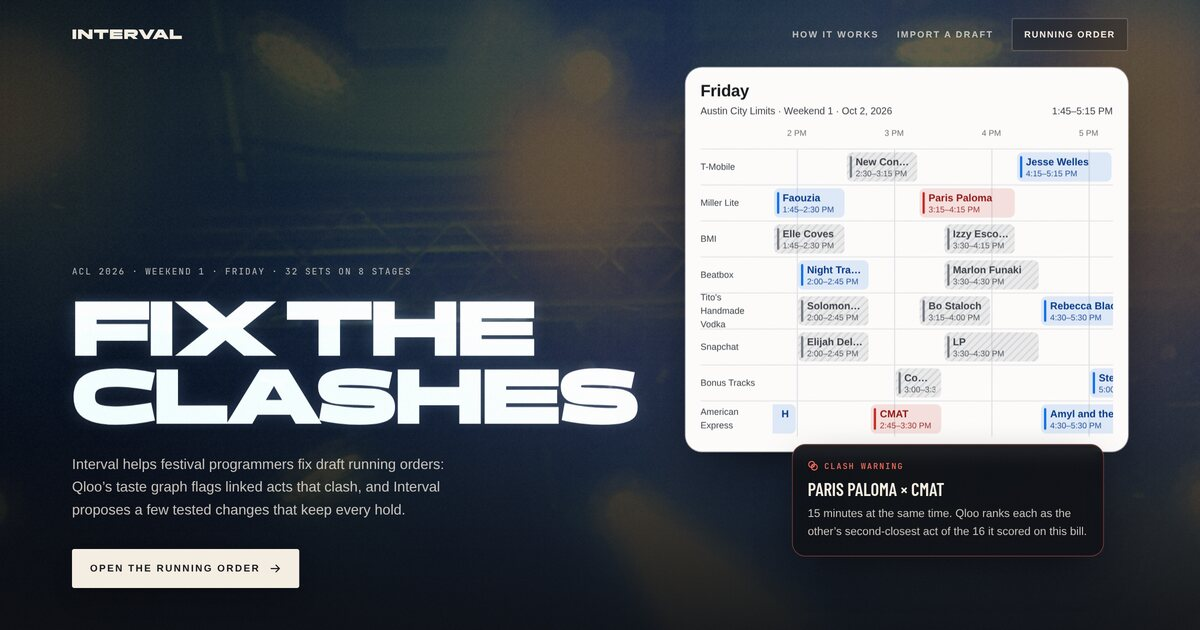
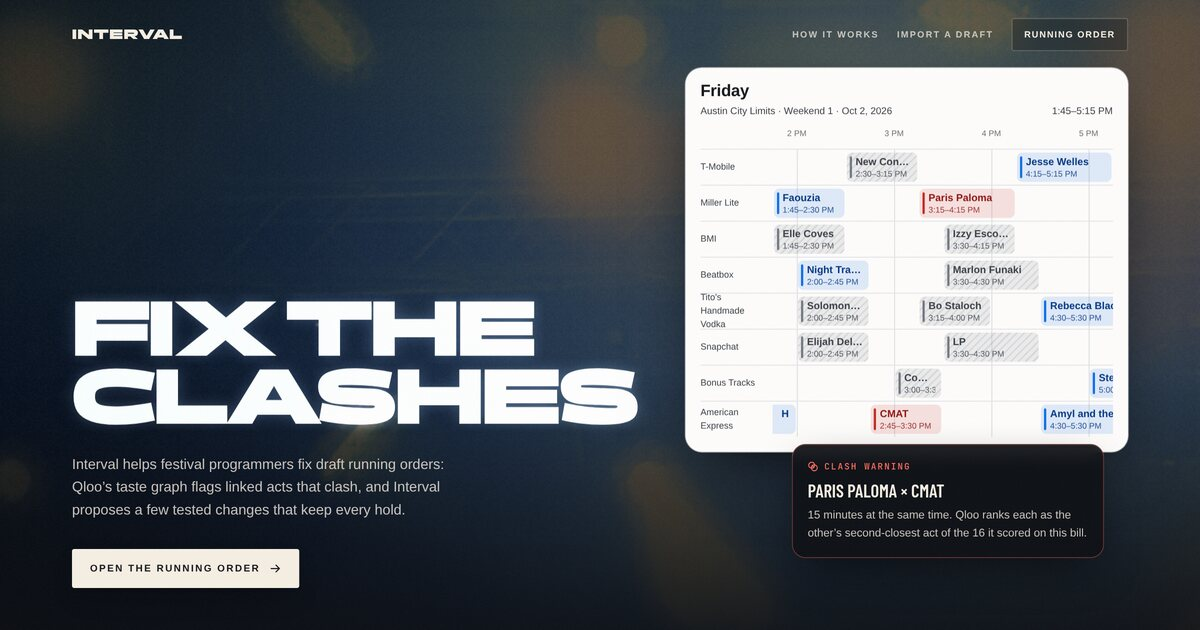
Let the layout explain: cut secondary labels and descriptions
Removed captions and helper sentences that restated what the layout,
a label, a legend or a button already says: the Repair caption, two stat
notes, the idle sheet hint, the undo bar's legend repeat, the rule
explanations in warnings and empty results, the proposal card's
unknown-overlap sentence, Comms' intro and footer, the evidence drawer's
eyebrow, the import intro and its repeated "stays unknown" lines, the
landing's hero eyebrow and overlap definition, and the error page's
paragraph. Kept values, states, consequences, costs, sources, the
affinity caveat and one fairness line on the comparison. The link-preview
image is recaptured without the removed eyebrow.

diff --git a/src/pages/sheet-page.tsx b/src/pages/sheet-page.tsx
@@ -12,7 +12,7 @@ import { Sheet } from '@/components/sheet';
 import { Stat } from '@/components/stat';
 import type { Clash, Repair, Run, SeedId, Slot as RunSlot, UnknownGuard } from '@/lib/api';
 import { useRun } from '@/lib/use-run';
-import { clock, concurrent, daySets, dayStages, festival, fromRun, overlapPairs, plural, sheetSlot, span, type Festival, type Slot } from '@/lib/timetable';
+import { clock, concurrent, daySets, dayStages, festival, fromRun, overlapPairs, plural, sheetSlot, type Festival, type Slot } from '@/lib/timetable';
 
 const SEEDS: Record<string, SeedId> = { '2026-10-02': 'acl-friday', '2026-10-16': 'iii-friday', '2026-10-17': 'iii-saturday' };
 const at = (s: RunSlot) => clock(s.start - Date.parse(`${s.day}T00:00:00Z`) / 60000);
@@ -75,9 +75,6 @@ function Legend({ moved, before }: { moved: boolean; before: string }) {
   );
 }
 
-const minutes = (n: number) => `${n.toLocaleString('en-US')} ${n === 1 ? 'minute' : 'minutes'}`;
-const unknownTotal = (before: number, after: number) => after === before ? `Their total stays at ${minutes(after)}.`
-  : `Their total ${after < before ? 'falls' : 'rises'} from ${before.toLocaleString('en-US')} to ${minutes(after)}.`;
 
 const panel = 'rounded-[4px] border border-chalk/12 bg-haze/80 p-5 backdrop-blur-md';
 
@@ -108,8 +105,7 @@ function Warnings({ run, strong, onOpen, onRule, busy }: { run: Run; strong: Cla
           </ul>
         ) : <p className="mt-3 text-[0.9375rem] text-chalk-2">No strong clash among the acts Qloo identifies.</p>}
         <p className="mt-2 text-[0.8125rem] leading-[1.6] text-chalk-2">
-          {plural(unknown, 'overlapping pair includes', 'overlapping pairs include')} an act Qloo can’t identify. Interval counts them as unknown, never as safe.{' '}
-          {net ? 'Looser rule in use: a tested change can’t grow their total overlap, though one pair can shift.' : 'Strict rule in use: a tested change can’t add overlap to any one of them.'}{' '}
+          {plural(unknown, 'overlapping pair includes', 'overlapping pairs include')} an act Qloo can’t identify; {net ? 'their total overlap can’t grow' : 'none of them can gain overlap'}.{' '}
           <button type="button" disabled={busy} onClick={() => onRule(net ? 'pair' : 'net')}
             className="font-medium text-chalk underline decoration-chalk/35 underline-offset-4 hover:decoration-chalk disabled:cursor-not-allowed disabled:opacity-45">
             {net ? 'Switch to the strict rule' : 'Switch to the looser rule'}
@@ -121,8 +117,6 @@ function Warnings({ run, strong, onOpen, onRule, busy }: { run: Run; strong: Cla
 }
 
 function Proposal({ repair, n, total, shown, onShow, onApply }: { repair: Repair; n: number; total: number; shown: boolean; onShow: () => void; onApply: () => void }) {
-  const unknown = repair.unknownChanges ?? [];
-  const pairs = unknown.length <= 3 ? unknown.map(u => `${u.acts.join(' × ')} (${u.beforeMinutes} to ${u.afterMinutes} min)`).join(', ') : plural(unknown.length, 'pair', 'pairs');
   const rows: [string, number, number][] = [
     ['Strong clashes', repair.before.strongClashes, repair.after.strongClashes],
     ['Qloo-weighted clash minutes', Math.round(repair.before.cost), Math.round(repair.after.cost)],
@@ -152,12 +146,7 @@ function Proposal({ repair, n, total, shown, onShow, onApply }: { repair: Repair
           </div>
         ))}
       </dl>
-      {unknown.length > 0 && (
-        <p className="mt-3 text-[0.8125rem] leading-[1.6] text-chalk-2">
-          {repair.unknownGuard === 'net' ? 'Looser rule: overlap' : 'Overlap'} with acts Qloo can’t identify changes for {pairs}.{' '}
-          {unknownTotal(repair.before.unknownMinutes, repair.after.unknownMinutes)}
-        </p>
-      )}
+
       <div className="mt-5 flex flex-wrap items-center gap-3">
         <button type="button" onClick={onApply} className={buttonClass('primary', 'h-11 px-5')}>Apply this change</button>
         <button type="button" aria-pressed={shown} onClick={onShow} className={buttonClass('ghost', cn('h-11 px-4', shown && 'border-chalk/70 bg-chalk/10'))}>
@@ -214,7 +203,6 @@ export function SheetPage() {
   const clashIds = useMemo(() => (preview ? clashesAfter(strong, preview) : new Set(strong.flatMap(c => c.setIds))), [strong, preview]);
   const sheetGhosts = preview ? preview.changes.filter(c => c.before.day === day).map(c => sheetSlot(c.before)) : shownGhosts;
   const pairs = useMemo(() => overlapPairs(current.sets), [current]);
-  const b2b = sets.filter(s => s.b2b).length;
   const selected = view === 'sheet' && !preview ? sets.find(s => s.id === pinned) ?? null : null;
   const canRepair = !!run && !busy && !!run.metrics && (run.status === 'ready' || run.status === 'none_found' || run.status === 'failed');
   const strict = run?.schedule.unknownGuard !== 'net';
@@ -261,9 +249,7 @@ export function SheetPage() {
         <a href="/" className="inline-flex items-center gap-2.5 font-display text-[1rem] font-extrabold uppercase tracking-[0.06em] text-chalk">
           <ArrowLeft size={16} weight="bold" className="text-chalk-2" />Interval
         </a>
-        {runId ? (
-          <span className="font-mono text-[0.75rem] uppercase tracking-[0.12em] text-chalk-2">Your running order</span>
-        ) : (
+        {!runId && (
           <AnimatedTabs label="Festival" variant="underline" activeTab={fid} onChange={id => { setFid(id as Festival['id']); setDay(null); reset(); }}
             tabs={[{ id: 'acl', label: 'ACL · Weekend 1' }, { id: 'iii', label: 'III Points' }]} />
         )}
@@ -272,13 +258,15 @@ export function SheetPage() {
           <AnimatedTabs label="View" variant="underline" activeTab={view} onChange={v => { setView(v as 'sheet' | 'list'); setPinned(null); }}
             tabs={[{ id: 'sheet', label: 'Sheet', icon: <Table size={15} /> }, { id: 'list', label: 'List', icon: <Rows size={15} /> }]} />
           <div className="flex flex-col items-end">
-            <button type="button" disabled={!canRepair} aria-describedby="repair-why" onClick={() => repair()}
+            <button type="button" disabled={!canRepair} aria-describedby={run ? undefined : 'repair-why'} onClick={() => repair()}
               className={buttonClass('primary', 'h-12 whitespace-nowrap px-5')}>
               <Intersect size={16} weight="bold" />{run?.status === 'searching' ? 'Searching…' : 'Repair running order'}
             </button>
-            <span id="repair-why" className="mt-1.5 font-mono text-[0.75rem] uppercase tracking-[0.1em] text-chalk-2">
-              {run ? `Moves up to ${plural(run.schedule.k, 'set', 'sets')} · keeps every hold` : error ? 'Qloo evidence unavailable' : 'Loading Qloo evidence'}
-            </span>
+            {!run && (
+              <span id="repair-why" className="mt-1.5 font-mono text-[0.75rem] uppercase tracking-[0.1em] text-chalk-2">
+                {error ? 'Qloo evidence unavailable' : 'Loading Qloo evidence'}
+              </span>
+            )}
           </div>
         </div>
       </header>
@@ -287,8 +275,8 @@ export function SheetPage() {
         <Stat label="Sets" value={current.sets.length} />
         <Stat label="Overlapping pairs" value={pairs} />
         <Stat label="Acts Qloo identifies" value={run ? run.coverage.confirmed : null} note={run ? `of ${run.coverage.acts} ${runId ? 'in this running order' : 'on this day'}` : undefined} />
-        <Stat label="Strong clashes" value={run?.metrics ? run.metrics.strongClashes : null} after={preview?.after.strongClashes} note={run?.metrics ? 'Linked acts playing at once' : 'Needs Qloo evidence'} />
-        <Stat label="Qloo-weighted clash minutes" value={run?.metrics ? Math.round(run.metrics.cost) : null} after={preview ? Math.round(preview.after.cost) : undefined} note={run?.metrics ? 'Overlap minutes × how closely Qloo links the acts' : 'Needs Qloo evidence'} />
+        <Stat label="Strong clashes" value={run?.metrics ? run.metrics.strongClashes : null} after={preview?.after.strongClashes} note={run?.metrics ? undefined : 'Needs Qloo evidence'} />
+        <Stat label="Qloo-weighted clash minutes" value={run?.metrics ? Math.round(run.metrics.cost) : null} after={preview ? Math.round(preview.after.cost) : undefined} note={run?.metrics ? undefined : 'Needs Qloo evidence'} />
       </section>
 
       <main id="running-order" tabIndex={-1} className="rise mx-auto mt-8 grid max-w-[112rem] grid-cols-[minmax(0,1fr)] gap-5 px-5 pb-24 lg:grid-cols-[minmax(0,1fr)_23rem]" style={{ '--i': 2 } as React.CSSProperties}>
@@ -341,14 +329,15 @@ export function SheetPage() {
             )}
             {!preview && run && (run.status === 'searching' || run.status === 'none_found' || run.status === 'failed') && (
               <div className="mb-5 flex flex-wrap items-center justify-between gap-x-6 gap-y-3 rounded-[14px] bg-paper-2 px-4 py-3 text-ink ring-1 ring-paper-line">
-                {run.status === 'searching' ? <p className="font-mono text-[0.8125rem] text-ink-2">Searching tested changes that keep every hold…</p> : (
+                {run.status === 'searching' ? <p className="font-mono text-[0.8125rem] text-ink-2">Searching…</p> : (
                   <>
                     <div className="min-w-0">
                       <p className="text-[0.9375rem] font-semibold leading-snug">{run.status === 'none_found' ? 'No tested change found' : run.reason ?? 'The search stopped early.'}</p>
-                      <p className="mt-1 max-w-[72ch] text-pretty text-[0.8125rem] leading-snug text-ink-2">
-                        {run.status === 'none_found' ? `${run.reason ?? ''} ` : ''}The draft stays as it is.
-                        {run.status === 'none_found' && (strict ? ' The strict rule rejects any change that adds overlap to a pair with an act Qloo can’t identify; the looser rule only stops their total overlap from growing.' : ' Releasing a hold gives the search more room.')}
-                      </p>
+                      {(run.status === 'failed' || !strict) && (
+                        <p className="mt-1 max-w-[72ch] text-pretty text-[0.8125rem] leading-snug text-ink-2">
+                          {run.status === 'failed' ? 'The draft stays as it is.' : 'Releasing a hold gives the search more room.'}
+                        </p>
+                      )}
                     </div>
                     {(run.status === 'failed' || strict) && (
                       <button type="button" disabled={!canRepair} onClick={() => repair(run.status === 'failed' ? undefined : 'net')} className={capsule}>
@@ -361,7 +350,7 @@ export function SheetPage() {
             )}
             {!preview && run?.canUndo && (
               <div className="mb-5 flex flex-wrap items-center justify-between gap-x-6 gap-y-3 rounded-[14px] bg-paper-2 px-4 py-3 text-ink ring-1 ring-paper-line">
-                <p className="text-[0.875rem] leading-snug text-ink-2">{shownGhosts ? 'Change applied. Dashed outlines show where the moved sets were; green shows where they play now.' : 'A tested change is applied.'}</p>
+                <p className="text-[0.875rem] leading-snug text-ink-2">{shownGhosts ? 'Change applied.' : 'A tested change is applied.'}</p>
                 <button type="button" disabled={busy} onClick={() => { setNotice(''); void act({ type: 'undo', expectedVersion: run.version }); }} className={capsule}>
                   <ArrowCounterClockwise aria-hidden="true" size={15} weight="bold" />Undo the last change
                 </button>
@@ -404,16 +393,15 @@ export function SheetPage() {
           {runId ? (
             <p className="max-w-[72ch] text-pretty text-[0.8125rem] leading-[1.6] text-chalk-2">
               Imported from your CSV. {run?.assumptions.map(a => `${a}.`).join(' ')}
-              {run?.snapshot ? ` Qloo: snapshot fetched ${date(run.snapshot.fetchedAt)}, covering the acts you confirmed. Striped grey sets are acts it can’t identify, so their pairs stay unknown.` : ''}{' '}
+              {run?.snapshot ? ` Qloo: snapshot fetched ${date(run.snapshot.fetchedAt)}.` : ''}{' '}
               <a className="underline decoration-chalk/30 underline-offset-4 hover:text-chalk" href="/import">Import another draft</a>
             </p>
           ) : (
           <p className="max-w-[72ch] text-pretty text-[0.8125rem] leading-[1.6] text-chalk-2">
             Timetable: <a className="underline decoration-chalk/30 underline-offset-4 hover:text-chalk" href={f.sourceUrl} target="_blank" rel="noreferrer">{f.source}</a>, verified {f.verified}. Retrospective scenario. {f.holds}.
             {f.notShown ? ` ${f.notShown}.` : ''}
-            {run?.snapshot ? ` Qloo: saved snapshot fetched ${date(run.snapshot.fetchedAt)}, covering the acts it can identify. Striped grey sets are acts it can’t, so their pairs stay unknown.` : ' Qloo snapshot: not loaded.'}
-            {b2b ? ` ${plural(b2b, 'b2b set is', 'b2b sets are')} striped too: their artists are never merged into one Qloo identity.` : ''}{' '}
-            <a className="underline decoration-chalk/30 underline-offset-4 hover:text-chalk" href="/import">Import a draft</a> to try your own lineup.
+            {run?.snapshot ? ` Qloo: saved snapshot, fetched ${date(run.snapshot.fetchedAt)}.` : ' Qloo snapshot: not loaded.'}{' '}
+            <a className="underline decoration-chalk/30 underline-offset-4 hover:text-chalk" href="/import">Import a draft</a>
           </p>
           )}
         </div>

diff --git a/src/pages/import-page.tsx b/src/pages/import-page.tsx
@@ -47,9 +47,6 @@ export function ImportPage() {
       <main className="rise mx-auto mt-10 max-w-3xl space-y-5 px-5 pb-24" style={{ '--i': 1 } as React.CSSProperties}>
         <div>
           <h1 className="font-display text-[clamp(1.75rem,5vw,2.75rem)] font-extrabold uppercase leading-[0.95] tracking-[-0.01em] text-chalk">Import a draft</h1>
-          <p className={cn(body, 'mt-4 max-w-[62ch] text-pretty')}>
-            Paste a draft as CSV. Interval matches each act to Qloo, tells you how many Qloo calls scoring needs before it runs, then finds clashes and tested changes the same way it does for the sample festivals.
-          </p>
         </div>
         {error && <p role="alert" className="flex items-start gap-2.5 rounded-[4px] border border-chalk/25 bg-stage/70 px-4 py-3 text-[0.9375rem] leading-6 text-chalk"><WarningCircle size={18} weight="bold" className="mt-0.5 shrink-0" />{error}</p>}
         {!runId ? <Paste onCreated={r => { save(r); setRunId(r.id); window.history.replaceState(null, '', `/import?run=${r.id}`); }} />
@@ -88,7 +85,7 @@ function Paste({ onCreated }: { onCreated: (r: Run) => void }) {
       </div>
       <label htmlFor="csv" className="mt-5 block text-[0.875rem] font-medium text-chalk">Running order as CSV</label>
       <p id="csv-help" className="mt-1 max-w-[68ch] text-pretty text-[0.8125rem] leading-[1.6] text-chalk-2">
-        Columns: day, stage, act, start, end, with local times such as 19:30 or 7:30 PM. Cells pasted from a spreadsheet work too. Up to 150 sets and 60 acts.
+        Columns: day, stage, act, start, end. Up to 150 sets and 60 acts.
       </p>
       <details className="mt-1 text-[0.8125rem] leading-[1.6] text-chalk-2">
         <summary className="cursor-pointer text-chalk underline decoration-chalk/35 underline-offset-4">Optional columns</summary>
@@ -130,7 +127,7 @@ function Steps({ run, busy, save, setError }: { run: Run; busy: boolean; save: (
       <section className={panel}>
         <Step n={1}>Draft checked</Step>
         <p className={cn(body, 'mt-2')}>
-          {plural(run.schedule.slots.length, 'set', 'sets')} by {plural(run.identities.length, 'act', 'acts')} across {plural(stages, 'stage', 'stages')} on {plural(days, 'day', 'days')}, in {run.timezone.replace(/_/g, ' ')}. Every set fits its stage without overlap.
+          {plural(run.schedule.slots.length, 'set', 'sets')} by {plural(run.identities.length, 'act', 'acts')} across {plural(stages, 'stage', 'stages')} on {plural(days, 'day', 'days')}, in {run.timezone.replace(/_/g, ' ')}.
         </p>
       </section>
       {unlooked.length > 0 || run.status === 'resolving'
@@ -173,7 +170,7 @@ function Lookup({ run, count, busy, save, setError }: { run: Run; count: number;
           : `Looking up ${plural(count, 'act', 'acts')} takes ${plural(estimate.estimatedCalls, 'Qloo call', 'Qloo calls')}, and at most ${estimate.maximumCalls} if some need a retry.`}
         {run.schedule.slots.some(s => /\bb2b\b/i.test(s.label)) ? ' b2b sets stay unknown: their artists are never merged into one identity.' : ''}
       </p>
-      {working && <p role="status" className="mt-3 font-mono text-[0.8125rem] text-chalk-2">Looking up acts on Qloo. This takes about a second per act.</p>}
+      {working && <p role="status" className="mt-3 font-mono text-[0.8125rem] text-chalk-2">Looking up acts on Qloo…</p>}
       {working && <div aria-hidden="true" className="shimmer-dark mt-3 h-1 w-full rounded-full" />}
       <button type="button" disabled={!estimate || working} onClick={go} className={buttonClass('primary', 'mt-5 h-12 px-5')}>
         <MagnifyingGlass size={16} weight="bold" />{estimate?.live && estimate.estimatedCalls > 0 ? `Look up acts · up to ${plural(estimate.maximumCalls, 'call', 'calls')}` : 'Look up acts'}
@@ -187,7 +184,6 @@ function Matches({ run, save, setError }: { run: Run; save: (r: Run) => void; se
   // Only a person's earlier review is preselected, never a name match: Qloo often has several artists with one name
   // (ACL's Leon Thomas is "Leon Thomas III", not the jazz singer). The programmer still saves every choice.
   const [choice, setChoice] = useState<Record<string, string>>(() => Object.fromEntries(acts.filter(i => i.status === 'ambiguous' && i.suggestedRef).map(i => [i.act, i.suggestedRef!])));
-  const reviewed = acts.find(i => i.status === 'ambiguous' && i.suggestedFrom)?.suggestedFrom;
   const [saving, setSaving] = useState(false);
   const [expanded, setExpanded] = useState<Record<string, boolean>>({});
   const pending = acts.filter(i => i.status === 'ambiguous');
@@ -216,7 +212,7 @@ function Matches({ run, save, setError }: { run: Run; save: (r: Run) => void; se
       <section className={panel}>
         <Step n={3}>Matches confirmed</Step>
         <p className={cn(body, 'mt-2')}>
-          {plural(matched.length, 'act is', 'acts are')} matched to Qloo artists; the other {acts.length - matched.length} stay unknown. The scores depend on these matches, so they’re fixed now. To try different matches, import the draft again.
+          {plural(matched.length, 'act is', 'acts are')} matched to Qloo artists; the other {acts.length - matched.length} stay unknown. To change matches, import the draft again.
         </p>
         <details className="mt-4">
           <summary className="cursor-pointer text-[0.875rem] font-medium text-chalk underline decoration-chalk/35 underline-offset-4">Show every match</summary>
@@ -236,8 +232,7 @@ function Matches({ run, save, setError }: { run: Run; save: (r: Run) => void; se
     <section className={panel}>
       <Step n={3}>Confirm the matches</Step>
       <p className={cn(body, 'mt-2')}>
-        {pending.length ? `Pick the Qloo artist for each act. Names repeat, so check the description. Acts you skip stay unknown.${reviewed ? ` Matches a person already confirmed for ${reviewed} are preselected.` : ''}`
-          : 'Every act is settled. Acts without a match stay unknown: Interval never moves them and never treats their pairs as zero.'}
+        {pending.length ? 'Pick the Qloo artist for each act. Acts you skip stay unknown.' : 'Every act is settled.'}
       </p>
       {pending.length > 0 && (
         <ul className="mt-5 space-y-5">
@@ -246,7 +241,7 @@ function Matches({ run, save, setError }: { run: Run; save: (r: Run) => void; se
               <fieldset>
                 <legend className="font-narrow text-[1.25rem] font-semibold uppercase leading-tight text-chalk">{i.act}</legend>
                 <div className="mt-2 grid gap-2">
-                  {[...i.candidates.map(c => ({ ref: c.ref, title: c.name, tag: c.ref === i.suggestedRef ? 'Reviewed match' : c.name.toLowerCase() === i.act.toLowerCase() ? 'Same name' : null, detail: [c.genres.slice(0, 3).join(', '), c.description].filter(Boolean).join(' · ') })), { ref: 'none', title: 'None of these', tag: null, detail: 'The act stays unknown.' }]
+                  {[...i.candidates.map(c => ({ ref: c.ref, title: c.name, tag: c.ref === i.suggestedRef ? 'Reviewed match' : c.name.toLowerCase() === i.act.toLowerCase() ? 'Same name' : null, detail: [c.genres.slice(0, 3).join(', '), c.description].filter(Boolean).join(' · ') })), { ref: 'none', title: 'None of these', tag: null, detail: '' }]
                     .filter((o, k) => expanded[i.act] || k < 2 || o.ref === 'none' || o.ref === choice[i.act]).map(o => (
                     <label key={o.ref} className={cn('flex cursor-pointer items-start gap-3 rounded-[3px] border px-3 py-2.5 transition-colors duration-150', choice[i.act] === o.ref ? 'border-chalk/60 bg-chalk/[0.07]' : 'border-chalk/12 hover:border-chalk/35')}>
                       <input type="radio" name={`match-${i.act}`} value={o.ref} checked={choice[i.act] === o.ref} onChange={() => setChoice(m => ({ ...m, [i.act]: o.ref }))} className="mt-1 size-4 shrink-0 accent-[var(--color-chalk)]" />
@@ -270,7 +265,7 @@ function Matches({ run, save, setError }: { run: Run; save: (r: Run) => void; se
       )}
       {pending.length > 0 && (
         <div className="sticky bottom-[4.25rem] z-10 mt-6 flex flex-wrap items-center justify-between gap-3 rounded-[4px] xl:bottom-4 border border-chalk/15 bg-stage/95 px-4 py-3 shadow-[0_18px_40px_-20px_oklch(0.122_0.009_268.083_/_0.95)] backdrop-blur-md">
-          <p className="text-[0.875rem] text-chalk-2 tnum">{chosen.length} of {plural(pending.length, 'act', 'acts')} chosen{chosen.length < pending.length ? '. The rest stay unknown.' : ''}</p>
+          <p className="text-[0.875rem] text-chalk-2 tnum">{chosen.length} of {plural(pending.length, 'act', 'acts')} chosen</p>
           <button type="button" disabled={!chosen.length || saving} onClick={confirm} className={buttonClass('primary', 'h-12 px-5')}>
             <Check size={16} weight="bold" />{saving ? 'Saving…' : `Save ${plural(chosen.length, 'choice', 'choices')}`}
           </button>
@@ -333,7 +328,7 @@ function Score({ run, busy, save, setError }: { run: Run; busy: boolean; save: (
     <section className={panel} aria-busy={scoring}>
       <Step n={4}>Score the confirmed acts</Step>
       <p className={cn(body, 'mt-2')}>
-        {short ? `Scoring needs at least ${MIN_SCORED} confirmed acts, and ${confirmed} ${confirmed === 1 ? 'is' : 'are'} confirmed. Qloo’s scores are compared within each act’s list, and a shorter list can’t tell strong links from weak ones.`
+        {short ? `Scoring needs at least ${MIN_SCORED} confirmed acts, and ${confirmed} ${confirmed === 1 ? 'is' : 'are'} confirmed.`
           : !estimate ? 'Checking what scoring costs…'
           : estimate.estimatedCalls === 0 ? `Every comparison between these ${plural(confirmed, 'act', 'acts')} is already saved, so scoring uses no Qloo calls.`
           : unsaved ? `This demo uses saved Qloo data only, and ${plural(estimate.estimatedCalls, 'request these matches need isn’t', 'requests these matches need aren’t')} saved, so it can’t score them here. The reviewed matches of the ACL Friday sample score from saved data; to score your own lineup, run Interval with a Qloo key.`

diff --git a/src/pages/landing.tsx b/src/pages/landing.tsx
@@ -140,9 +140,8 @@ function Statement({ pairs, strong, unknown }: { pairs: number; strong: number |
   return (
     <section ref={ref} aria-label="What Qloo changes" className="mx-auto grid max-w-[92rem] grid-cols-[minmax(0,1fr)] gap-x-10 gap-y-12 px-5 py-28 sm:px-8 lg:grid-cols-[minmax(0,1fr)_minmax(0,1fr)] lg:items-end lg:py-36">
       <div>
-        <p className="font-mono text-[0.75rem] uppercase tracking-[0.14em] text-chalk-2">ACL Friday, as published</p>
-        <RollingNumber value={seen ? String(pairs) : pad(pairs)} className="outline-type mt-4 font-display text-[clamp(6rem,17vw,16rem)] font-extrabold leading-[0.9] tracking-[-0.05em]" />
-        <p className="mt-2 font-display text-[clamp(1.125rem,1.7vw,1.625rem)] font-bold uppercase leading-tight">Overlapping pairs</p>
+        <RollingNumber value={seen ? String(pairs) : pad(pairs)} className="outline-type font-display text-[clamp(6rem,17vw,16rem)] font-extrabold leading-[0.9] tracking-[-0.05em]" />
+        <p className="mt-2 font-display text-[clamp(1.125rem,1.7vw,1.625rem)] font-bold uppercase leading-tight">Overlapping pairs, as published</p>
       </div>
       <div className="lg:pb-2">
         {strong == null
@@ -216,7 +215,6 @@ export function Landing() {
             <Stat label="Stages" value={stageNames.length} />
             <Stat label="Overlaps" value={pairs} />
           </div>
-          <p className="mt-5 text-[0.875rem] leading-[1.6] text-chalk-2">Overlaps are pairs of sets playing at the same time on different stages.</p>
         </>
       ),
     },
@@ -239,7 +237,7 @@ export function Landing() {
           <pre className="mt-6 overflow-x-auto rounded-[3px] border border-chalk/15 bg-stage/70 p-4 font-mono text-[0.8125rem] leading-[1.6] text-chalk">{QLOO_REQUEST}</pre>
           <p className="mt-4 text-chalk-2">
             {clash
-              ? <>On this Friday that’s {clash.acts[0]} and {clash.acts[1]}, who overlap by {clash.overlapMinutes} minutes. {reading} Qloo identifies {run?.coverage.confirmed} of the {run?.coverage.acts} acts; the rest are striped grey and stay unknown.</>
+              ? <>On this Friday that’s {clash.acts[0]} and {clash.acts[1]}, who overlap by {clash.overlapMinutes} minutes. {reading} Qloo identifies {run?.coverage.confirmed} of the {run?.coverage.acts} acts.</>
               : "This page couldn’t load the saved Qloo snapshot, so no clash is marked."}
           </p>
         </>
@@ -327,10 +325,7 @@ export function Landing() {
       <main id="main">
       <section className="relative mx-auto grid min-h-[100dvh] max-w-[92rem] grid-cols-[minmax(0,1fr)] gap-12 px-5 pt-28 pb-14 sm:px-8 lg:grid-cols-[minmax(0,1.32fr)_minmax(0,1fr)] lg:gap-10 lg:pt-24">
         <div className="@container lg:self-end">
-          <p className="rise font-mono text-[0.75rem] uppercase tracking-[0.14em] text-chalk-2" style={order(0)}>
-            ACL 2026 · Weekend 1 · Friday · {plural(sets.length, 'set', 'sets')} on {plural(stageNames.length, 'stage', 'stages')}
-          </p>
-          <h1 className="rise mt-5 font-display text-[min(13.6cqi,8rem)] font-extrabold uppercase leading-[0.86] tracking-[-0.03em] text-chalk" style={order(1)}>
+          <h1 className="rise font-display text-[min(13.6cqi,8rem)] font-extrabold uppercase leading-[0.86] tracking-[-0.03em] text-chalk" style={order(1)}>
             <ShaderText lines={['Fix the', 'clashes']} />
           </h1>
           <p className="rise mt-8 max-w-[34rem] text-[clamp(1rem,1.2vw,1.1875rem)] leading-[1.6] text-chalk/80" style={order(2)}>{PRODUCT_SENTENCE}</p>

diff --git a/src/components/evidence-drawer.tsx b/src/components/evidence-drawer.tsx
@@ -1,7 +1,7 @@
 import { useCallback, useEffect, useRef, useState } from 'react';
 import { useReducedMotion } from 'motion/react';
 import { cn } from 'cn';
-import { Graph, X } from '@phosphor-icons/react';
+import { X } from '@phosphor-icons/react';
 import { api, type Clash, type PairEvidence } from '@/lib/api';
 
 const ordinal = (n: number) => `${n}${n % 100 >= 11 && n % 100 <= 13 ? 'th' : ['th', 'st', 'nd', 'rd'][n % 10] ?? 'th'}`;
@@ -38,10 +38,9 @@ export function EvidenceDrawer({ runId, clash, onClose }: { runId: string; clash
         className={cn('paper flex h-full w-full max-w-[34rem] flex-col gap-6 overflow-y-auto overscroll-contain bg-paper p-6 text-ink shadow-[0_0_80px_oklch(0.122_0.009_268.083_/_0.6)] sm:p-8', leaving ? 'drawer-out' : 'drawer-in')}>
         <div className="flex items-start justify-between gap-4">
           <div>
-            <p className="flex items-center gap-2 font-mono text-[0.75rem] uppercase tracking-[0.12em] text-ink-2"><Graph size={14} weight="bold" />Qloo evidence</p>
-            <h2 className="mt-2 font-narrow text-[1.75rem] font-semibold uppercase leading-[1.05]">{clash.acts[0]} × {clash.acts[1]}</h2>
+            <h2 className="font-narrow text-[1.75rem] font-semibold uppercase leading-[1.05]">{clash.acts[0]} × {clash.acts[1]}</h2>
             <p className="mt-2 text-[0.9375rem] leading-6 text-ink-2">
-              They overlap for {clash.overlapMinutes} minutes. Pair weight {clash.weight == null ? 'unknown' : clash.weight.toFixed(2)}: the mean of both directions below, where 0.90 or more is a strong link.
+              {clash.overlapMinutes} min overlap · pair weight {clash.weight == null ? 'unknown' : clash.weight.toFixed(2)}, strong at 0.90 or more
             </p>
           </div>
           <button ref={close} type="button" onClick={dismiss} aria-label="Close the evidence" className="grid size-10 shrink-0 place-items-center rounded-[3px] border border-ink/20 transition-[background-color,scale] duration-150 hover:bg-ink/5 active:scale-[0.96]"><X size={16} weight="bold" /></button>
@@ -82,7 +81,7 @@ export function EvidenceDrawer({ runId, clash, onClose }: { runId: string; clash
             <p className="mt-2 font-mono text-[0.75rem] text-ink-2">Saved Qloo snapshot, fetched {date(d.fetched)}</p>
           </section>
         ))}
-        <p className="mt-auto text-[0.8125rem] leading-5 text-ink-2">Affinity is Qloo’s taste-graph signal, ranked within each act’s row. It is not a count of shared ticket holders.</p>
+        <p className="mt-auto text-[0.8125rem] leading-5 text-ink-2">Affinity is a taste-graph signal, not a count of shared ticket holders.</p>
       </aside>
     </div>
   );

diff --git a/src/components/comms.tsx b/src/components/comms.tsx
@@ -116,17 +116,12 @@ export function Comms({ run, send, className }: { run?: Run; send: (body: Omit<M
         <span className="font-mono text-[0.75rem] uppercase tracking-[0.12em] text-chalk-2">{health?.model ?? 'Agent'} · {status}</span>
       </div>
 
-      {turns.length === 0 && (
-        <p className="text-[0.875rem] leading-[1.6] text-chalk-2">
-          Ask for a change in plain words. The agent turns it into constraints, runs the search, and answers only with facts its tools returned.
-        </p>
-      )}
       {paused && (
         <p className="text-[0.875rem] leading-[1.6] text-chalk/90">
           {health.status === 'limited'
-            ? `Live answers are paused: Interval’s model-call allowance is used up${health.retry_at ? ` until ${clockAt(health.retry_at)}` : ''}.`
+            ? `Live answers are paused${health.retry_at ? ` until ${clockAt(health.retry_at)}` : ''}.`
             : 'Live answers are unavailable right now.'}
-          {recordings.length > 0 ? ' The recorded answers below still replay.' : ' Recorded answers only replay on the exact running order and rules they were recorded on.'}
+          {recordings.length > 0 ? ' Recorded answers still replay.' : ''}
         </p>
       )}
       <ol aria-live="polite" aria-label="Conversation" className={cn('max-h-[52vh] space-y-5 overflow-y-auto overscroll-contain pe-1', !turns.length && 'hidden')}>
@@ -159,9 +154,6 @@ export function Comms({ run, send, className }: { run?: Run; send: (body: Omit<M
           </button>
         </div>
         {thinking && <div aria-hidden="true" className="shimmer-dark mt-2 h-1 w-full rounded-full" />}
-        <p className="mt-2 text-[0.75rem] leading-5 text-chalk-2">
-          {thinking ? 'Working on it. Each step appears as it actually runs.' : paused ? 'Recorded answers say when they were recorded.' : 'Live answers come from gpt-5.6-luna. Recorded answers say when they were recorded.'}
-        </p>
       </form>
     </aside>
   );

diff --git a/src/components/comparison.tsx b/src/components/comparison.tsx
@@ -45,7 +45,7 @@ export function Comparison({ seedId }: { seedId: SeedId }) {
     <section aria-labelledby="comparison-title" className="rounded-[4px] border border-chalk/12 bg-haze/80 p-5 backdrop-blur-md">
       <h2 id="comparison-title" className="font-display text-[0.875rem] font-bold uppercase tracking-[0.06em]">Compared with other approaches</h2>
       <p className="mt-2 max-w-[72ch] text-pretty text-[0.8125rem] leading-[1.6] text-chalk-2">
-        Every row is measured the same way, on the published timetable. The LLM-only trials saw the act names, set times and the same rules, but no Qloo scores. The genre rows use genre labels gathered before any Qloo data.
+        Every row is scored the same way; the LLM-only and genre rows had no Qloo scores.
       </p>
       {data ? (
         <div tabIndex={0} role="region" aria-label="Comparison table" className="relative -mx-5 mt-4 overflow-x-auto overscroll-x-contain px-2">
@@ -94,7 +94,7 @@ export function Comparison({ seedId }: { seedId: SeedId }) {
       )}
       {data && (
         <p className="mt-4 max-w-[72ch] text-pretty text-[0.8125rem] leading-[1.6] text-chalk-2">
-          Prepared {new Date(data.frozenAt).toLocaleDateString('en-US', { month: 'short', day: 'numeric', year: 'numeric' })}, before this page loaded. A retrospective comparison of timetables, not of audience outcomes.
+          Prepared {new Date(data.frozenAt).toLocaleDateString('en-US', { month: 'short', day: 'numeric', year: 'numeric' })}.
         </p>
       )}
     </section>

diff --git a/src/lib/timetable.ts b/src/lib/timetable.ts
@@ -78,7 +78,7 @@ export const FESTIVALS: Festival[] = [
     source: 'official C3 schedule image',
     sourceUrl: 'https://www.aclfestival.com/schedule',
     verified: 'Oct 12, 2026',
-    holds: 'Inferred holds, loosened to billing bands for this scenario',
+    holds: 'Inferred holds, loosened to billing bands',
     notShown: "Kids' area and silent disco not shown",
     days: [{ id: '2026-10-02', label: 'Fri' }],
     stages: ordered(acl.map(r => r.stage)),
@@ -101,7 +101,7 @@ export const FESTIVALS: Festival[] = [
     source: 'official set-times page',
     sourceUrl: 'https://www.iiipoints.com/set-times/',
     verified: 'Oct 12, 2026',
-    holds: 'No holds set for this scenario',
+    holds: 'No holds set',
     days: [{ id: '2026-10-16', label: 'Fri' }, { id: '2026-10-17', label: 'Sat' }],
     stages: ordered(iii.map(r => r.stage)),
     sets: iii.map((r, i) => ({

diff --git a/src/app.tsx b/src/app.tsx
@@ -15,7 +15,6 @@ class PageError extends Component<{ children: ReactNode }, { failed: boolean }> 
     return (
       <main className="mx-auto max-w-xl px-5 py-24">
         <h1 className="font-display text-[clamp(1.75rem,5vw,2.25rem)] font-extrabold uppercase leading-[1] text-chalk">This page hit an error</h1>
-        <p className="mt-4 text-[0.9375rem] leading-[1.6] text-chalk-2">Reload to try again. If it keeps happening, start from the front page.</p>
         <div className="mt-8 flex flex-wrap gap-3">
           <button type="button" onClick={() => window.location.reload()} className={buttonClass('primary', 'h-12 px-5')}>Reload the page</button>
           <a href="/" className={buttonClass('ghost', 'h-12 px-5')}>Go to the front page</a>

diff --git a/src/components/sheet.tsx b/src/components/sheet.tsx
@@ -152,7 +152,7 @@ export function Sheet({ sets, stages, clashIds, ghosts, variant = 'full', emphas
         <p aria-live="polite" className="mt-4 min-h-6 max-w-[72ch] text-pretty text-[0.875rem] leading-[1.6] text-ink-2">
           {active
             ? <><span className="font-semibold text-ink">{active.act}</span> · {active.stage} · <span className="tabular-nums">{span(active)}</span> · plays at the same time as {together.size} {together.size === 1 ? 'set' : 'sets'} on other stages.</>
-            : 'Select a set to see what plays at the same time on other stages. An overlap is a timetable fact; whether it splits one audience needs Qloo evidence.'}
+            : null}
         </p>
       )}
     </div>
